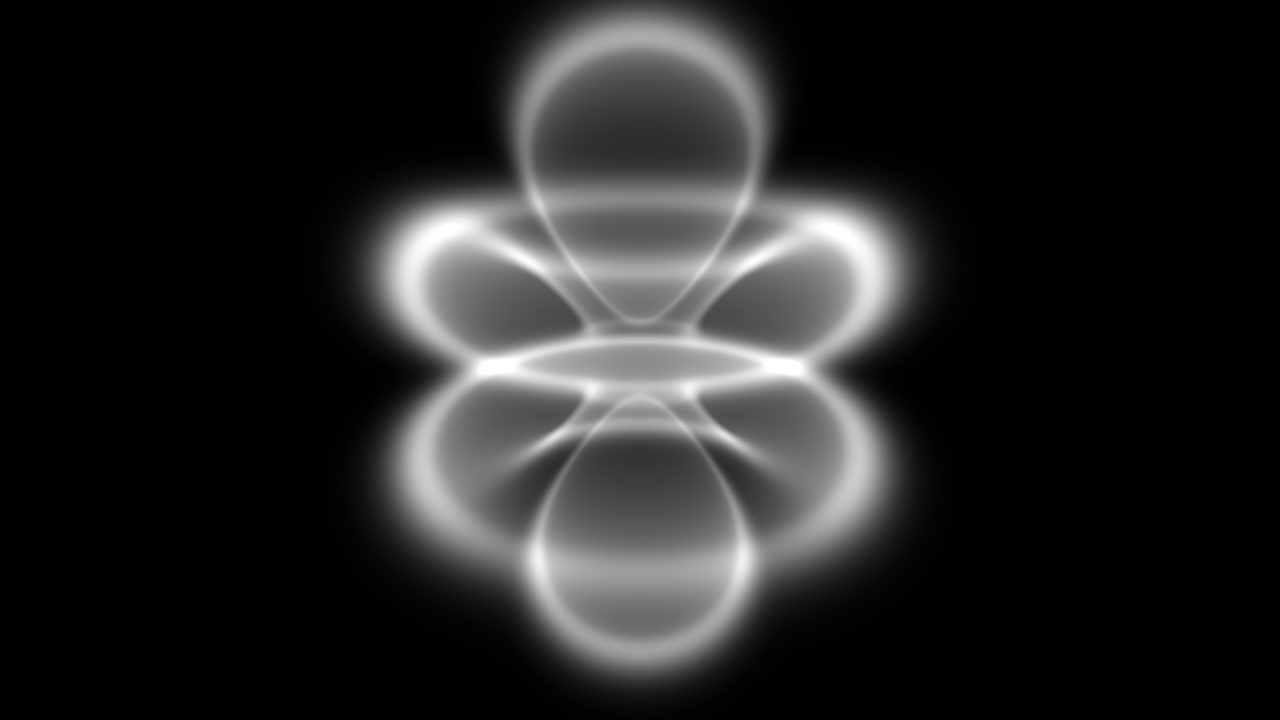
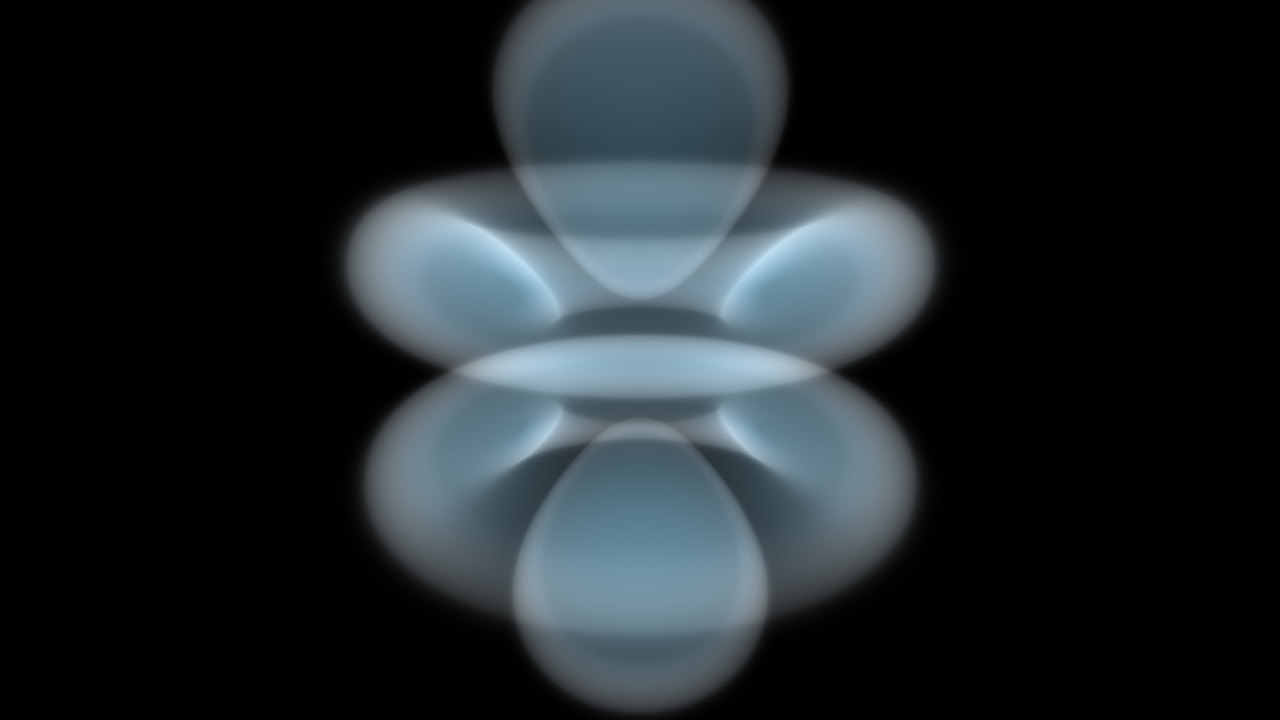
25w24b

Changed region(s): [[0.25, 0.0, 0.75, 1.0]]

diff --git a/visual_studio/NumerDemo1/src/library/numer/include/numer_plot.h b/visual_studio/NumerDemo1/src/library/numer/include/numer_plot.h
@@ -346,9 +346,40 @@ namespace numer {
 
 	namespace gridclr {
 
+		namespace brt {
 
+			class gradual {
+			public:
+				double operator()(double x) const {
+					return sqrt(x);
+				}
+			};
+
+			class soft {
+			public:
+				double operator()(double x) const {
+					if (x < 0.0) return 0.0;
+					if (x < 1.0)return sqrt(x);
+					return 1.0;
+				}
+			};
+
+			class hard {
+			public:
+				double operator()(double x) const {
+					if (x < 0.0) return 0.0;
+					if (x < 1.0)return pow(x, 7.0);
+					return 1.0;
+				}
+			};
+
+
+		}//namespace brt end
+
+		template<class BrightnessStrategy>
 		class HeatMap {
 		private:
+			BrightnessStrategy	brightness_{};
 			GrayScale			to_double_{ 0.0, 1.0 };
 			double				min_thrs_;
 			double				max_thrs_;
@@ -375,7 +406,8 @@ namespace numer {
 				double y = (x_ - min_thrs_) / (max_thrs_ - min_thrs_);
 				RGB clr = clrmap_(x_);
 				Vec3<double> grid_clr{ to_double_(clr.R), to_double_(clr.G), to_double_(clr.B) };
-				grid_clr *= pow(y, 0.5);
+				const double bri = brightness_(y);
+				grid_clr *= bri;
 				return grid_clr;
 			}
 
@@ -386,15 +418,18 @@ namespace numer {
 				double y = (x_ - min_thrs_) / (max_thrs_ - min_thrs_);
 				RGB clr = clrmap_(x_);
 				Vec3<double> grid_clr{ to_double_(clr.R), to_double_(clr.G), to_double_(clr.B) };
-				grid_clr *= pow(y, 0.5);
+				const double bri = brightness_(y);
+				grid_clr *= bri;
 				return grid_clr;
 			}
 
 		};
 
 
+		template<class BrightnessStrategy>
 		class CRainbow{
 		private:
+			BrightnessStrategy	brightness_{};
 			GrayScale			to_double_{ 0.0, 1.0 };
 			double				max_thrs_;
 			ComplxRainbowClr	crainbow_;
@@ -417,7 +452,8 @@ namespace numer {
 				double y = x_ / max_thrs_;
 				RGB clr = crainbow_(c_);
 				Vec3<double> grid_clr{ to_double_(clr.R), to_double_(clr.G), to_double_(clr.B) };
-				grid_clr *= pow(y, 0.5);
+				const double bri = brightness_(y);
+				grid_clr *= bri;
 				return grid_clr;
 			}
 

diff --git a/visual_studio/NumerDemo1/src/unit_tests/plot_test.cpp b/visual_studio/NumerDemo1/src/unit_tests/plot_test.cpp
@@ -36,7 +36,10 @@ void PlotTest::run()
 
 
 	HydrogenState nlm(4, 3, 0, 0.02);
-	Cartes3Adp nlm_in_xyz(nlm);
+	const auto weighed_nlm = [&](double r, double tht, double phi) {
+		return r * nlm(r, tht, phi);
+		};
+	Cartes3Adp nlm_in_xyz(weighed_nlm);
 	
 
 	BENCHMARK_BEGIN(render);
@@ -44,9 +47,9 @@ void PlotTest::run()
 	mat<RGB> wf3d_img = DensityPlot3D(720, 1280)
 		.setCamAzimuthAngle(0.4 * Pi)
 		.setCamElevationAngle(0.1 * Pi)
-		.setBrightnessGain(3.0)
+		.setBrightnessGain(1.5)
 		.setFineness(500)
-		.renderImage(nlm_in_xyz, std::function<Vec3<double>(Complex)>(gridclr::HeatMap(0.0, 2.0, LinearHeatMap(0.0, 2.0, Color::Zone_odd()))));
+		.renderImage(nlm_in_xyz, std::function<Vec3<double>(Complex)>(gridclr::HeatMap<gridclr::brt::hard>(0.0, 0.1, LinearHeatMap(0.0, 0.3, Color::AqueousBlue()))));
 
 	BENCHMARK_END(render);
 
